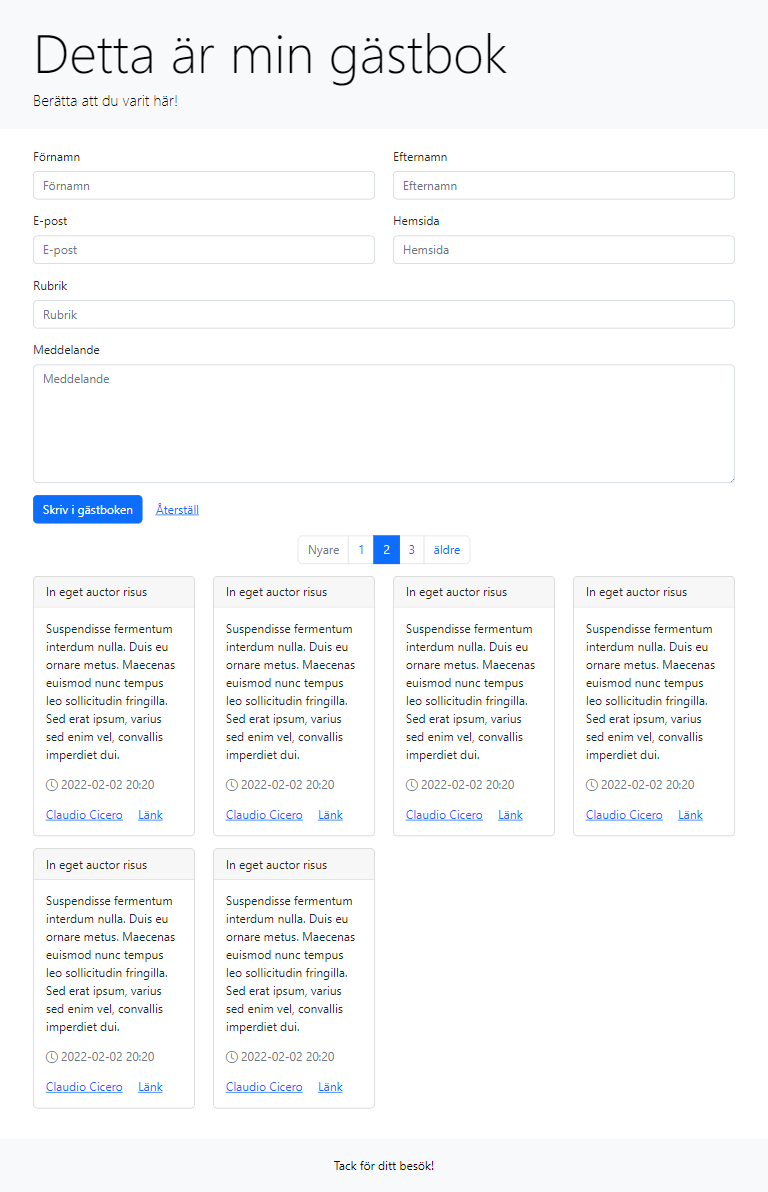
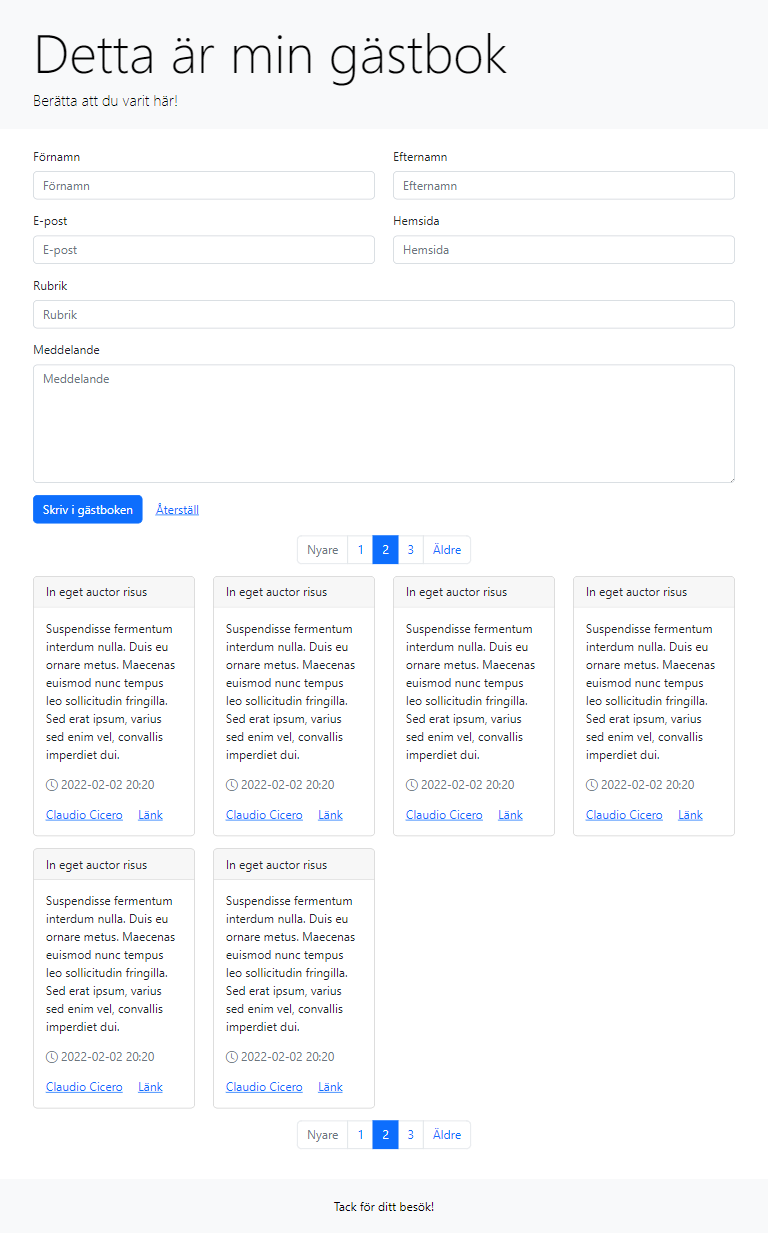
Updated assignments

diff --git a/webbutveckling_1/projekt/projekt_gastbok/index.php b/webbutveckling_1/projekt/projekt_gastbok/index.php
@@ -57,7 +57,7 @@
             <li class="page-item"><a class="page-link" href="#">1</a></li>
             <li class="page-item active" aria-current="page"><a class="page-link" href="#">2</a></li>
             <li class="page-item"><a class="page-link" href="#">3</a></li>
-            <li class="page-item"><a class="page-link" href="#">äldre</a></li>
+            <li class="page-item"><a class="page-link" href="#">Äldre</a></li>
         </ul>
     </nav>
 
@@ -76,6 +76,16 @@
         </div>
         <?php endforeach; ?>
     </div>
+
+    <nav aria-label="pagination">
+        <ul class="pagination justify-content-center">
+            <li class="page-item disabled"><a class="page-link">Nyare</a></li>
+            <li class="page-item"><a class="page-link" href="#">1</a></li>
+            <li class="page-item active" aria-current="page"><a class="page-link" href="#">2</a></li>
+            <li class="page-item"><a class="page-link" href="#">3</a></li>
+            <li class="page-item"><a class="page-link" href="#">Äldre</a></li>
+        </ul>
+    </nav>
 </div>
 
 <div class="text-bg-light">
